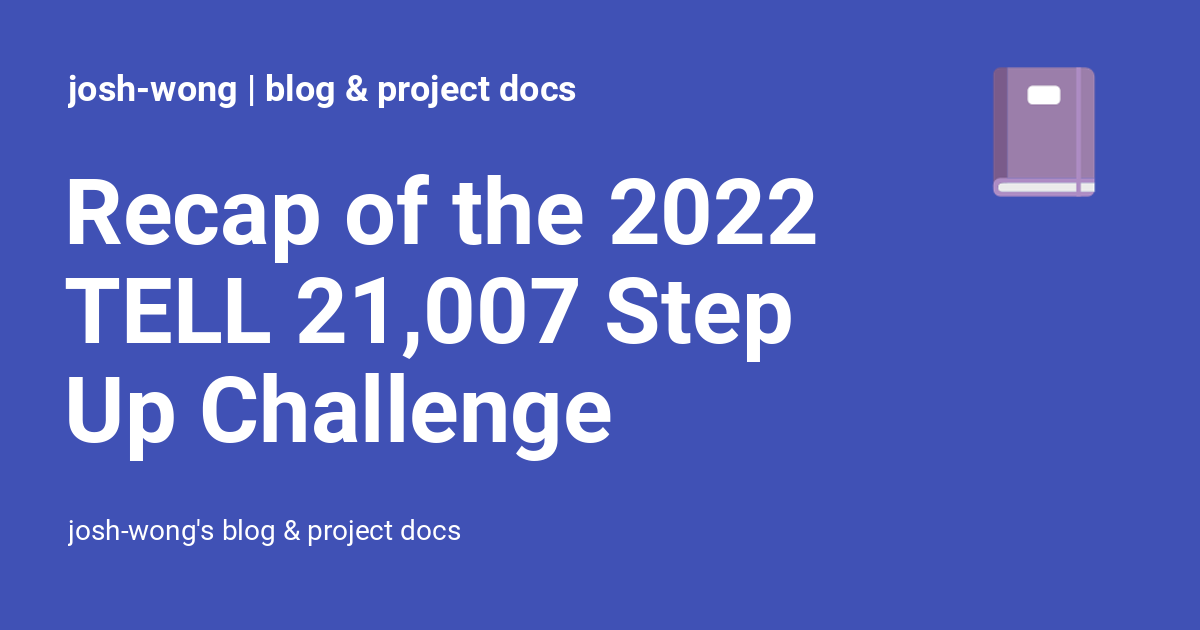
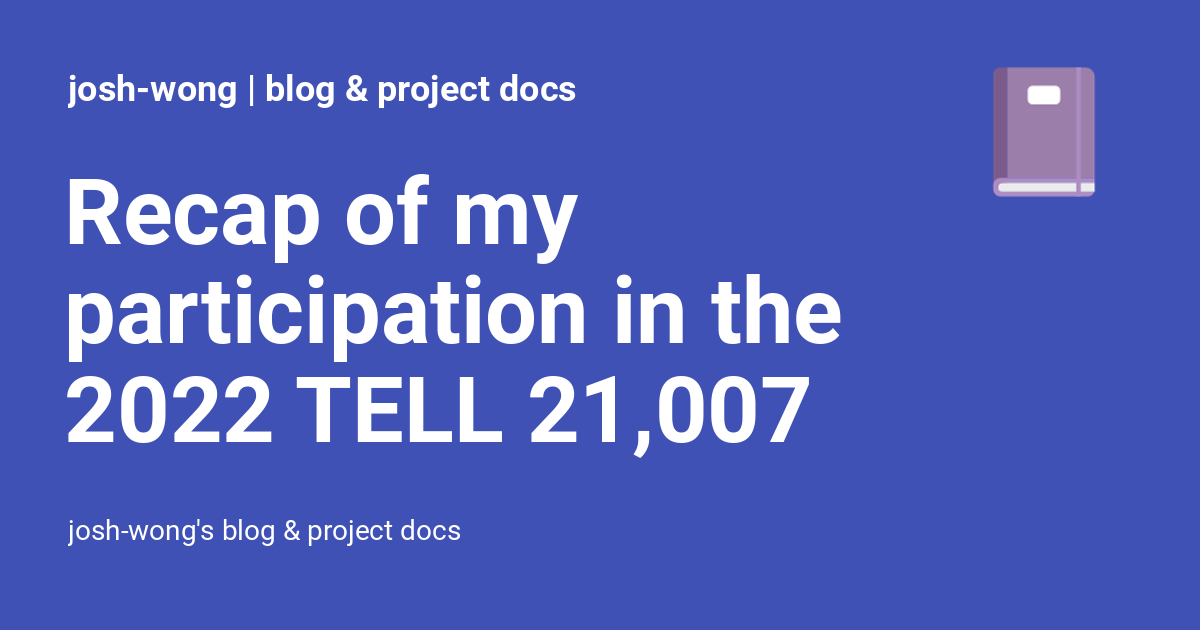
Deployed d92a271 with MkDocs version: 1.4.0

Changed region(s): [[0.0308, 0.2714, 0.7092, 0.754]]

diff --git a/blog/2022/10/recap-of-my-participation-in-the-2022-tell-21007-step-up-challenge/index.html b/blog/2022/10/recap-of-my-participation-in-the-2022-tell-21007-step-up-challenge/index.html
@@ -10,7 +10,7 @@
       
       
       
-        <link rel="canonical" href="https://josh-wong.github.io/blog/2022/10/recap-of-the-2022-tell-21007-step-up-challenge/">
+        <link rel="canonical" href="https://josh-wong.github.io/blog/2022/10/recap-of-my-participation-in-the-2022-tell-21007-step-up-challenge/">
       
       
         
@@ -24,7 +24,7 @@
     
     
       
-        <title>Recap of the 2022 TELL 21,007 Step Up Challenge - josh-wong | blog & project docs</title>
+        <title>Recap of my participation in the 2022 TELL 21,007 Step Up Challenge - josh-wong | blog & project docs</title>
       
     
     
@@ -110,7 +110,7 @@
       
         <meta  property="og:type"  content="website" >
       
-        <meta  property="og:title"  content="Recap of the 2022 TELL 21,007 Step Up Challenge - josh-wong | blog & project docs" >
+        <meta  property="og:title"  content="Recap of my participation in the 2022 TELL 21,007 Step Up Challenge - josh-wong | blog & project docs" >
       
         <meta  property="og:description"  content="josh-wong's blog & project docs" >
       
@@ -122,11 +122,11 @@
       
         <meta  property="og:image:height"  content="630" >
       
-        <meta  property="og:url"  content="https://josh-wong.github.io/blog/2022/10/recap-of-the-2022-tell-21007-step-up-challenge/" >
+        <meta  property="og:url"  content="https://josh-wong.github.io/blog/2022/10/recap-of-my-participation-in-the-2022-tell-21007-step-up-challenge/" >
       
         <meta  name="twitter:card"  content="summary_large_image" >
       
-        <meta  name="twitter:title"  content="Recap of the 2022 TELL 21,007 Step Up Challenge - josh-wong | blog & project docs" >
+        <meta  name="twitter:title"  content="Recap of my participation in the 2022 TELL 21,007 Step Up Challenge - josh-wong | blog & project docs" >
       
         <meta  name="twitter:description"  content="josh-wong's blog & project docs" >
       
@@ -153,7 +153,7 @@
     <div data-md-component="skip">
       
         
-        <a href="#recap-of-the-2022-tell-21007-step-up-challenge" class="md-skip">
+        <a href="#recap-of-my-participation-in-the-2022-tell-21007-step-up-challenge" class="md-skip">
           Skip to content
         </a>
       
@@ -187,7 +187,7 @@
         <div class="md-header__topic" data-md-component="header-topic">
           <span class="md-ellipsis">
             
-              Recap of the 2022 TELL 21,007 Step Up Challenge
+              Recap of my participation in the 2022 TELL 21,007 Step Up Challenge
             
           </span>
         </div>
@@ -1134,7 +1134,7 @@
   </a>
 
 
-<h1 id="recap-of-the-2022-tell-21007-step-up-challenge">Recap of the 2022 TELL 21,007 Step Up Challenge<a class="headerlink" href="#recap-of-the-2022-tell-21007-step-up-challenge" title="Permanent link">&para;</a></h1>
+<h1 id="recap-of-my-participation-in-the-2022-tell-21007-step-up-challenge">Recap of my participation in the 2022 TELL 21,007 Step Up Challenge<a class="headerlink" href="#recap-of-my-participation-in-the-2022-tell-21007-step-up-challenge" title="Permanent link">&para;</a></h1>
 <p>This year, I participated in the Step Up Challenge by <a href="https://telljp.com/">TELL Japan</a>, which is an event to honor the people who lost their lives to suicide in Japan in 2021. The purpose of this event is to raise mental-health awareness and funds for TELL to continue providing lifesaving services to the English-speaking community in Japan. Although you can participate in the event solo or as a group, I decided to join as an individual.</p>
 <!-- more -->
 

diff --git a/blog/archive/2022/index.html b/blog/archive/2022/index.html
@@ -1059,11 +1059,11 @@
     </div>
   </header>
   <div class="md-post__content md-typeset">
-    <h2>Recap of the 2022 TELL 21,007 Step Up Challenge</h2>
+    <h2>Recap of my participation in the 2022 TELL 21,007 Step Up Challenge</h2>
 <p>This year, I participated in the Step Up Challenge by <a href="https://telljp.com/">TELL Japan</a>, which is an event to honor the people who lost their lives to suicide in Japan in 2021. The purpose of this event is to raise mental-health awareness and funds for TELL to continue providing lifesaving services to the English-speaking community in Japan. Although you can participate in the event solo or as a group, I decided to join as an individual.</p>
 
     <nav class="md-post__action">
-      <a href="../../2022/10/recap-of-the-2022-tell-21007-step-up-challenge/">
+      <a href="../../2022/10/recap-of-my-participation-in-the-2022-tell-21007-step-up-challenge/">
         Continue reading
       </a>
     </nav>

diff --git a/blog/category/charity/index.html b/blog/category/charity/index.html
@@ -1059,11 +1059,11 @@
     </div>
   </header>
   <div class="md-post__content md-typeset">
-    <h2>Recap of the 2022 TELL 21,007 Step Up Challenge</h2>
+    <h2>Recap of my participation in the 2022 TELL 21,007 Step Up Challenge</h2>
 <p>This year, I participated in the Step Up Challenge by <a href="https://telljp.com/">TELL Japan</a>, which is an event to honor the people who lost their lives to suicide in Japan in 2021. The purpose of this event is to raise mental-health awareness and funds for TELL to continue providing lifesaving services to the English-speaking community in Japan. Although you can participate in the event solo or as a group, I decided to join as an individual.</p>
 
     <nav class="md-post__action">
-      <a href="../../2022/10/recap-of-the-2022-tell-21007-step-up-challenge/">
+      <a href="../../2022/10/recap-of-my-participation-in-the-2022-tell-21007-step-up-challenge/">
         Continue reading
       </a>
     </nav>

diff --git a/blog/category/exercise/index.html b/blog/category/exercise/index.html
@@ -1059,11 +1059,11 @@
     </div>
   </header>
   <div class="md-post__content md-typeset">
-    <h2>Recap of the 2022 TELL 21,007 Step Up Challenge</h2>
+    <h2>Recap of my participation in the 2022 TELL 21,007 Step Up Challenge</h2>
 <p>This year, I participated in the Step Up Challenge by <a href="https://telljp.com/">TELL Japan</a>, which is an event to honor the people who lost their lives to suicide in Japan in 2021. The purpose of this event is to raise mental-health awareness and funds for TELL to continue providing lifesaving services to the English-speaking community in Japan. Although you can participate in the event solo or as a group, I decided to join as an individual.</p>
 
     <nav class="md-post__action">
-      <a href="../../2022/10/recap-of-the-2022-tell-21007-step-up-challenge/">
+      <a href="../../2022/10/recap-of-my-participation-in-the-2022-tell-21007-step-up-challenge/">
         Continue reading
       </a>
     </nav>

diff --git a/blog/category/health/index.html b/blog/category/health/index.html
@@ -1059,11 +1059,11 @@
     </div>
   </header>
   <div class="md-post__content md-typeset">
-    <h2>Recap of the 2022 TELL 21,007 Step Up Challenge</h2>
+    <h2>Recap of my participation in the 2022 TELL 21,007 Step Up Challenge</h2>
 <p>This year, I participated in the Step Up Challenge by <a href="https://telljp.com/">TELL Japan</a>, which is an event to honor the people who lost their lives to suicide in Japan in 2021. The purpose of this event is to raise mental-health awareness and funds for TELL to continue providing lifesaving services to the English-speaking community in Japan. Although you can participate in the event solo or as a group, I decided to join as an individual.</p>
 
     <nav class="md-post__action">
-      <a href="../../2022/10/recap-of-the-2022-tell-21007-step-up-challenge/">
+      <a href="../../2022/10/recap-of-my-participation-in-the-2022-tell-21007-step-up-challenge/">
         Continue reading
       </a>
     </nav>

diff --git a/blog/category/japan/index.html b/blog/category/japan/index.html
@@ -1059,11 +1059,11 @@
     </div>
   </header>
   <div class="md-post__content md-typeset">
-    <h2>Recap of the 2022 TELL 21,007 Step Up Challenge</h2>
+    <h2>Recap of my participation in the 2022 TELL 21,007 Step Up Challenge</h2>
 <p>This year, I participated in the Step Up Challenge by <a href="https://telljp.com/">TELL Japan</a>, which is an event to honor the people who lost their lives to suicide in Japan in 2021. The purpose of this event is to raise mental-health awareness and funds for TELL to continue providing lifesaving services to the English-speaking community in Japan. Although you can participate in the event solo or as a group, I decided to join as an individual.</p>
 
     <nav class="md-post__action">
-      <a href="../../2022/10/recap-of-the-2022-tell-21007-step-up-challenge/">
+      <a href="../../2022/10/recap-of-my-participation-in-the-2022-tell-21007-step-up-challenge/">
         Continue reading
       </a>
     </nav>

diff --git a/blog/index.html b/blog/index.html
@@ -1053,11 +1053,11 @@
     </div>
   </header>
   <div class="md-post__content md-typeset">
-    <h2>Recap of the 2022 TELL 21,007 Step Up Challenge</h2>
+    <h2>Recap of my participation in the 2022 TELL 21,007 Step Up Challenge</h2>
 <p>This year, I participated in the Step Up Challenge by <a href="https://telljp.com/">TELL Japan</a>, which is an event to honor the people who lost their lives to suicide in Japan in 2021. The purpose of this event is to raise mental-health awareness and funds for TELL to continue providing lifesaving services to the English-speaking community in Japan. Although you can participate in the event solo or as a group, I decided to join as an individual.</p>
 
     <nav class="md-post__action">
-      <a href="2022/10/recap-of-the-2022-tell-21007-step-up-challenge/">
+      <a href="2022/10/recap-of-my-participation-in-the-2022-tell-21007-step-up-challenge/">
         Continue reading
       </a>
     </nav>

diff --git a/blog/2022/10/hello-world/index.html b/blog/2022/10/hello-world/index.html
@@ -1186,13 +1186,13 @@
       
       
         
-        <a href="../recap-of-the-2022-tell-21007-step-up-challenge/" class="md-footer__link md-footer__link--next" aria-label="Next: Recap of the 2022 TELL 21,007 Step Up Challenge" rel="next">
+        <a href="../recap-of-my-participation-in-the-2022-tell-21007-step-up-challenge/" class="md-footer__link md-footer__link--next" aria-label="Next: Recap of my participation in the 2022 TELL 21,007 Step Up Challenge" rel="next">
           <div class="md-footer__title">
             <div class="md-ellipsis">
               <span class="md-footer__direction">
                 Next
               </span>
-              Recap of the 2022 TELL 21,007 Step Up Challenge
+              Recap of my participation in the 2022 TELL 21,007 Step Up Challenge
             </div>
           </div>
           <div class="md-footer__button md-icon">
